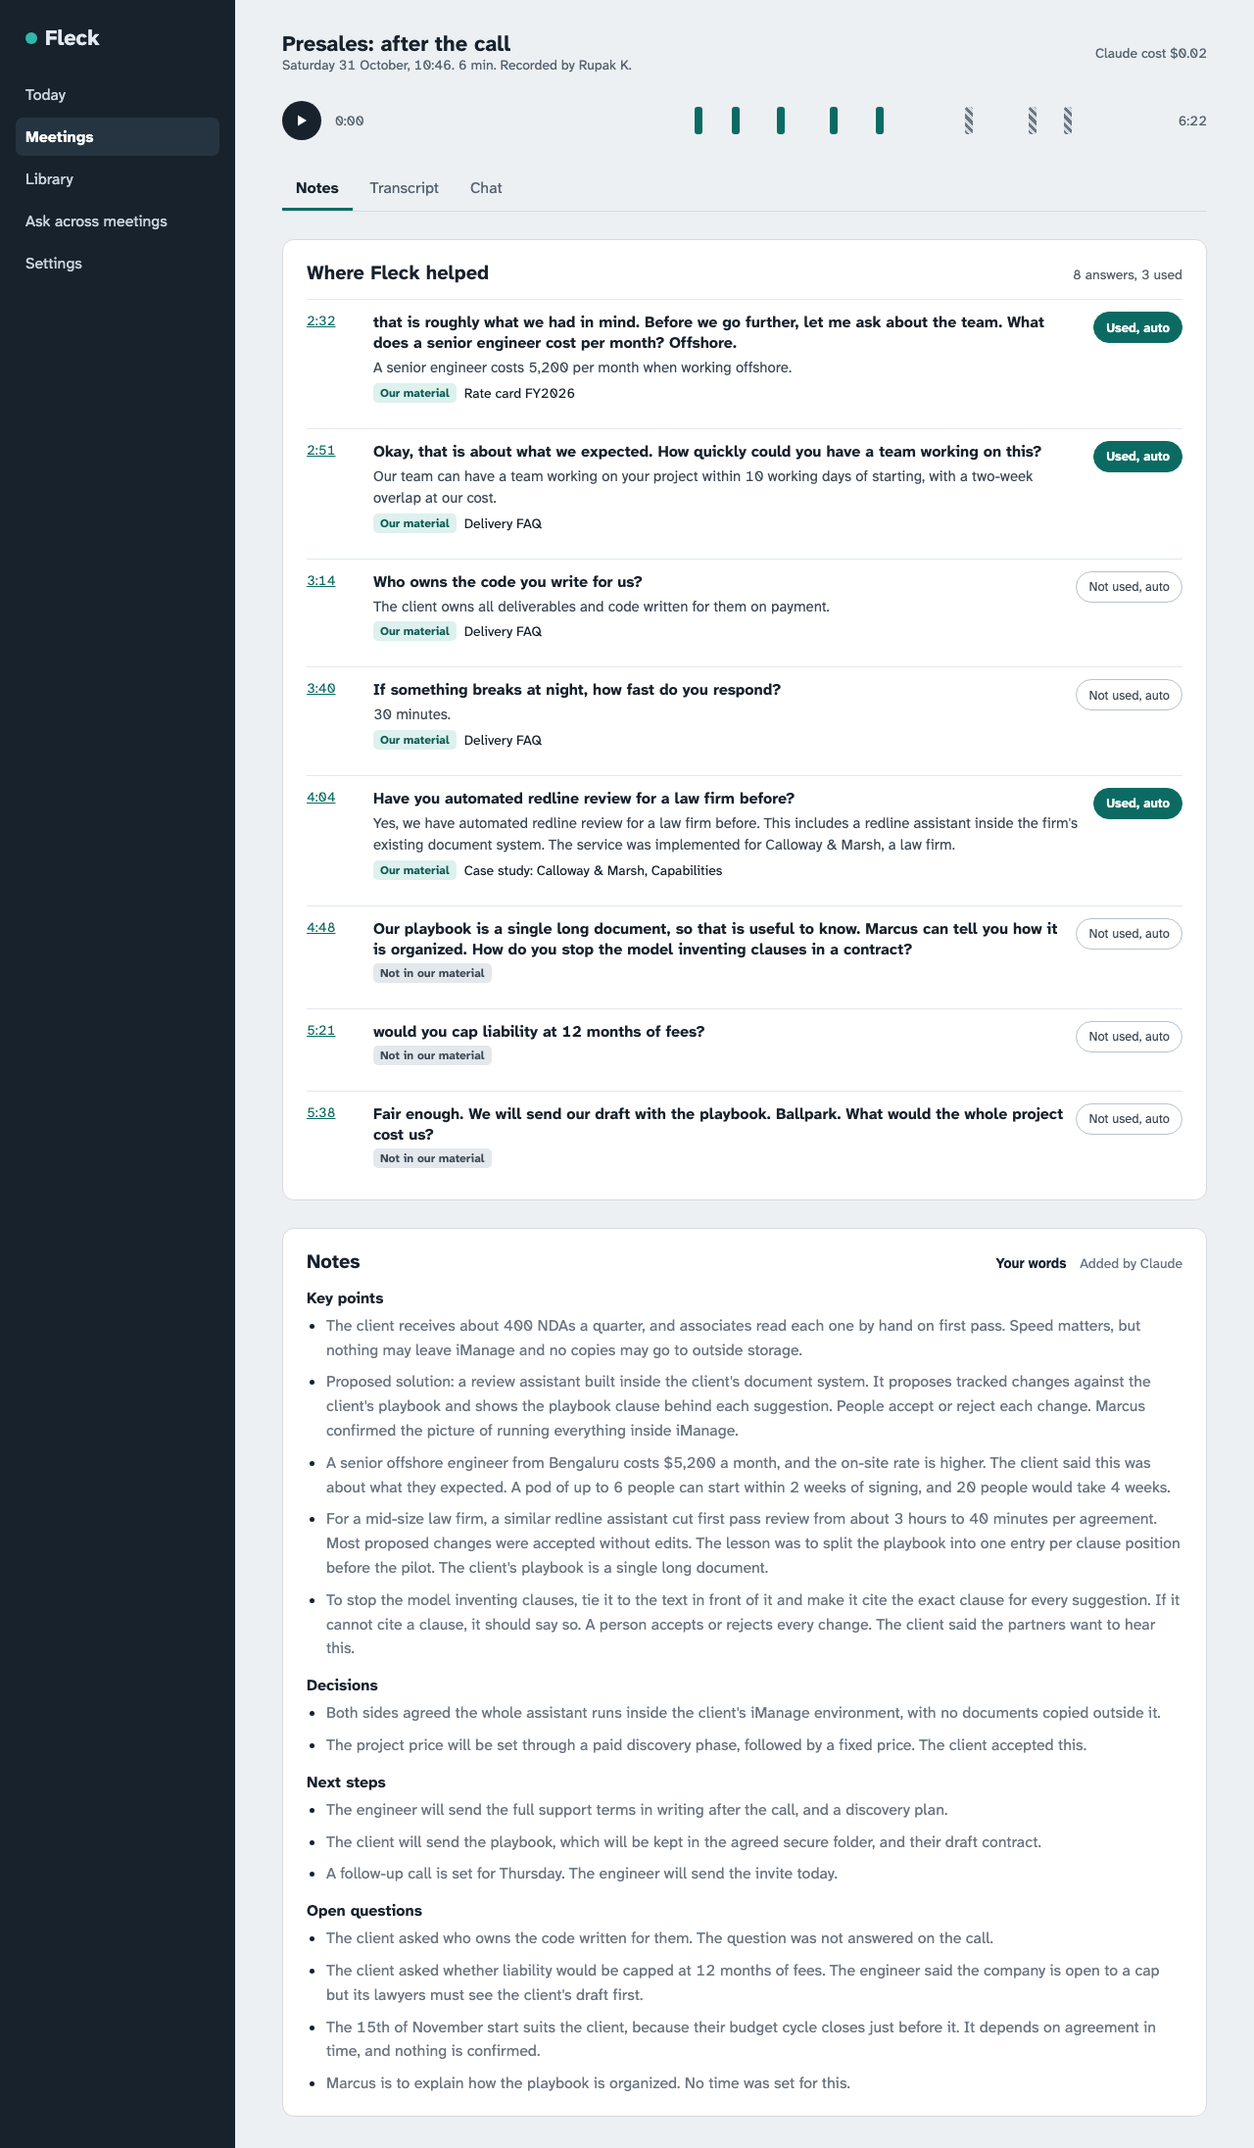
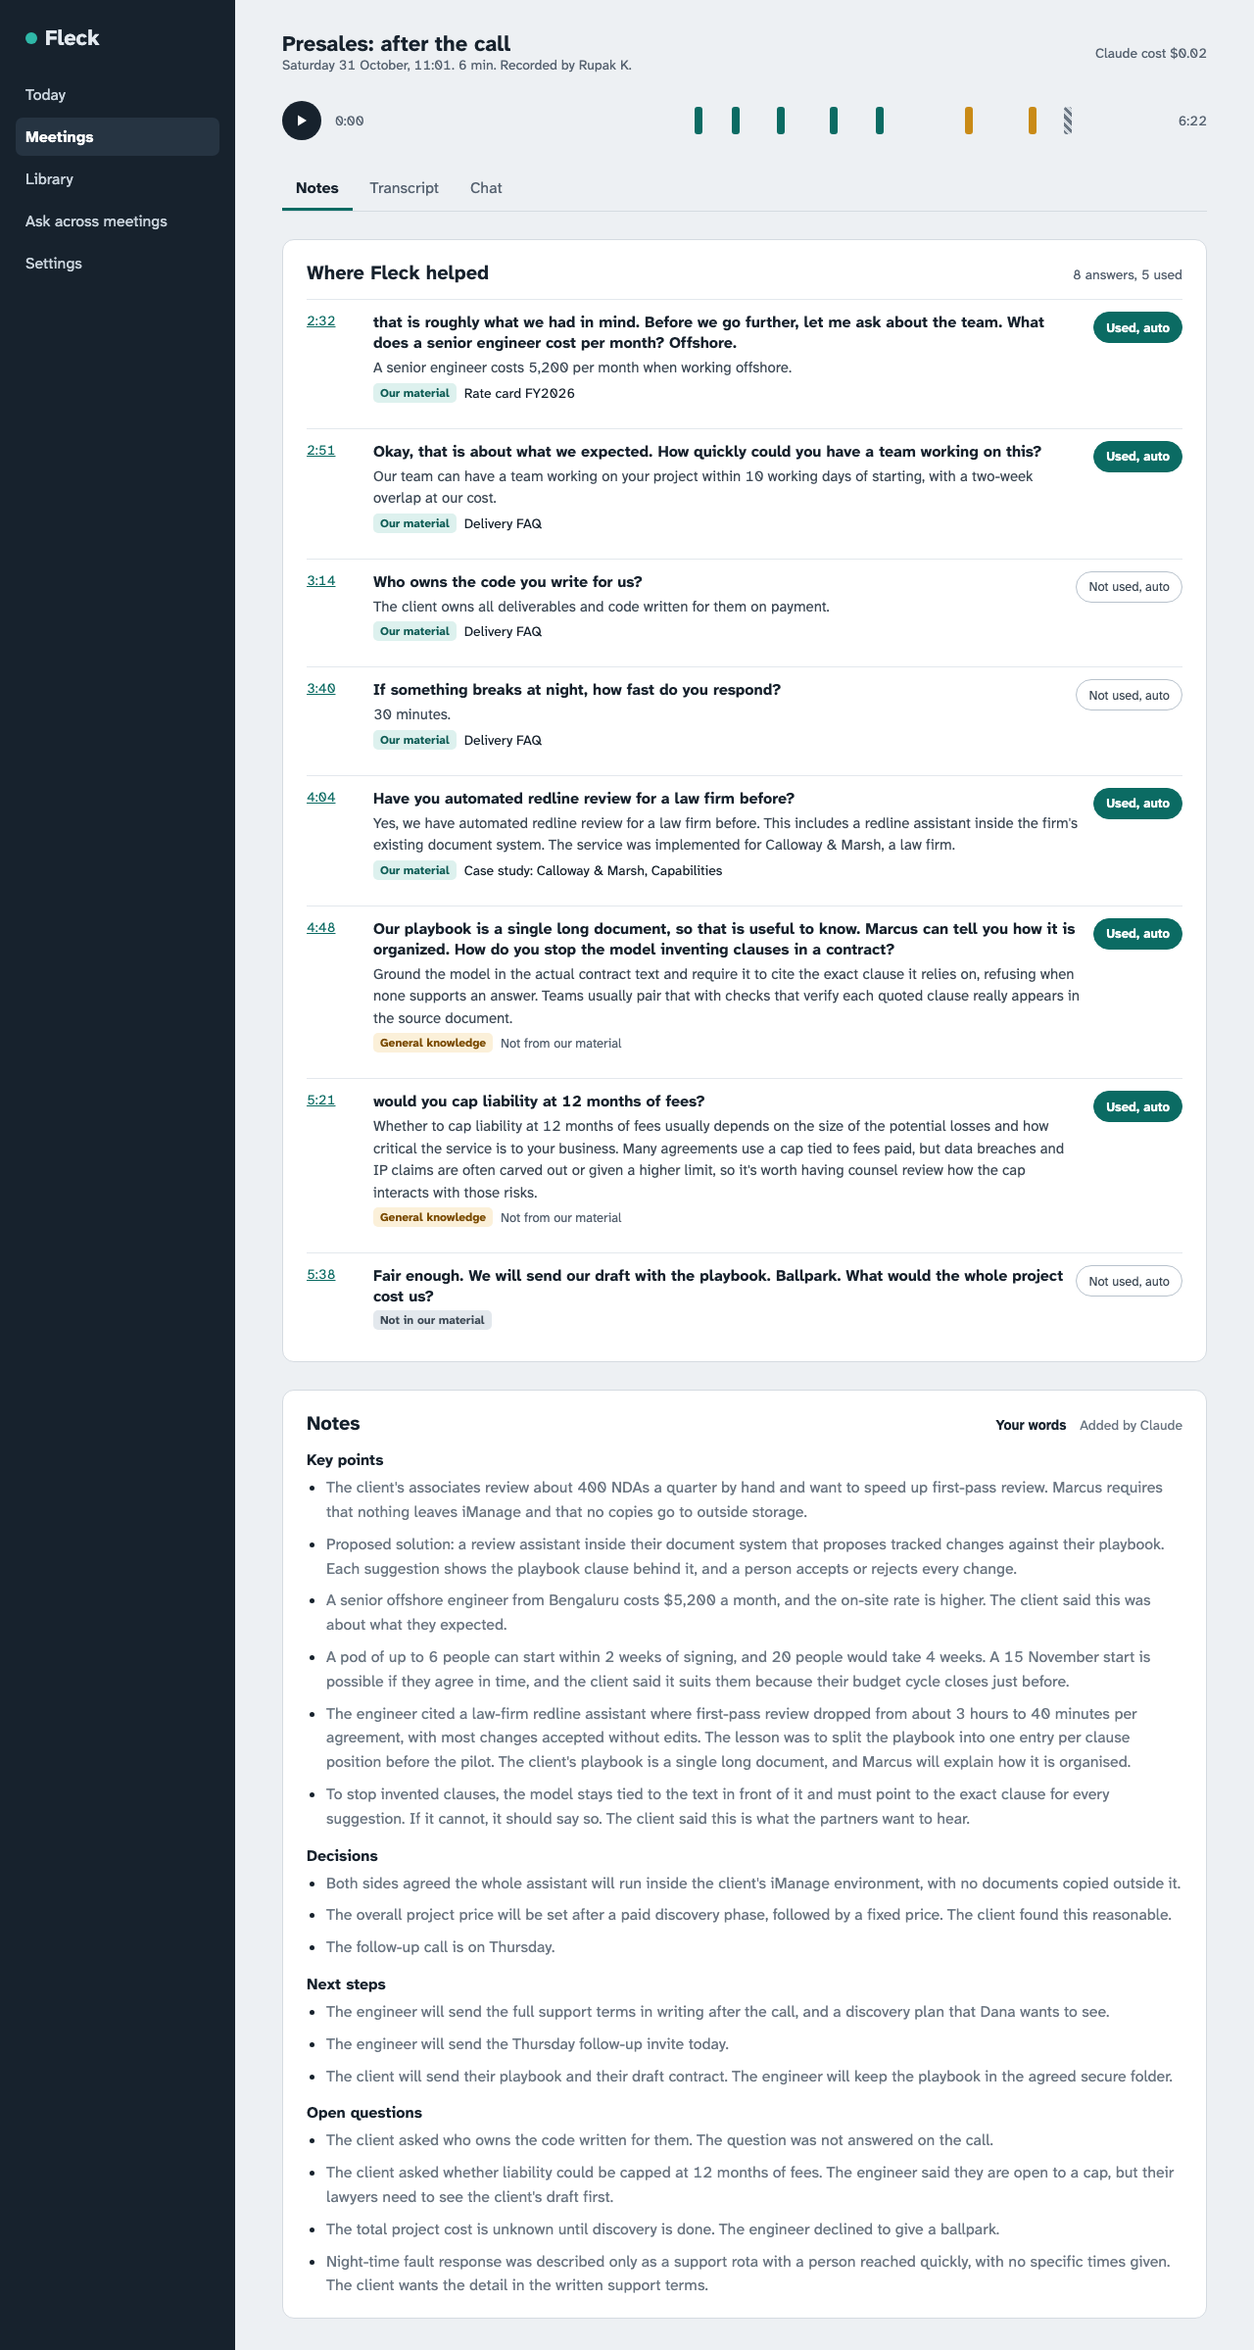
fix(web): Task 19 review round 1 (used markers overlap, replay Claude key, strict e2e)

diff --git a/web/e2e/after-meeting.spec.ts b/web/e2e/after-meeting.spec.ts
@@ -1,5 +1,5 @@
 import { spawn, spawnSync } from "node:child_process";
-import { mkdtempSync } from "node:fs";
+import { mkdirSync, mkdtempSync, readFileSync, writeFileSync } from "node:fs";
 import { tmpdir } from "node:os";
 import path from "node:path";
 import { expect, test } from "@playwright/test";
@@ -7,7 +7,7 @@ import { expect, test } from "@playwright/test";
 const ORIGIN = { Origin: "http://localhost:5173" };  // the api refuses cookie-authenticated writes from any other origin
 const ROOT = path.resolve(import.meta.dirname, "../..");
 
-test("after the replay and Stop: ready, every stored answer listed, a used marker toggled by hand survives reload", async ({ page }) => {
+test("after the replay and Stop: ready, every question answered, q_ip not used, toggled by hand survives reload", async ({ page }) => {
   test.setTimeout(900_000);
   await page.goto("/signin?next=%2F");
   await page.getByRole("button", { name: "Sign in with Google" }).click();
@@ -23,6 +23,10 @@ test("after the replay and Stop: ready, every stored answer listed, a used marke
   const paired = spawnSync("uv", helper("pair", code), { cwd: ROOT, env });
   expect(paired.status, String(paired.stderr)).toBe(0);
 
+  // the Claude key from .env into the throwaway keyring (never printed), so General knowledge answers can happen
+  const seeded = spawnSync("uv", helper("set-claude-key", "--from-env", ".env"), { cwd: ROOT, env, stdio: "ignore" });
+  expect(seeded.status, "set-claude-key --from-env .env").toBe(0);
+
   const meeting = await (await page.request.post("/api/meetings", { data: { title: "Presales: after the call" }, headers: ORIGIN })).json();
   await page.goto(`/meetings/${meeting.id}`);
   await expect(page.getByRole("heading", { name: "Presales: after the call", level: 1 })).toBeVisible();
@@ -34,6 +38,9 @@ test("after the replay and Stop: ready, every stored answer listed, a used marke
     const exited = new Promise<number | null>(res => replay.on("exit", res));
     expect(await exited, log.join("")).toBe(0);  // the whole WAV, its answers and its audio chunks are uploaded
   } finally {
+    // kept for diagnosing a missed question (classify timeouts, rules fallbacks, Ollama errors)
+    mkdirSync(path.join(ROOT, "web/test-results"), { recursive: true });
+    writeFileSync(path.join(ROOT, "web/test-results/helper-replay.log"), log.join(""));
     if (replay.pid) try { process.kill(-replay.pid); } catch { /* already gone */ }
   }
 
@@ -41,23 +48,25 @@ test("after the replay and Stop: ready, every stored answer listed, a used marke
   await expect(page.getByText("Processing the recording…")).toBeVisible({ timeout: 30_000 });
   await expect(page.getByRole("heading", { name: "Where Fleck helped" })).toBeVisible({ timeout: 240_000 });  // polled until ready
 
-  // the live path found 5 to 7 of the 8 questions in the runs so far; the page must show exactly what the api holds
-  const stored = (await (await page.request.get(`/api/meetings/${meeting.id}`)).json()).assists.length;
-  expect(stored).toBeGreaterThanOrEqual(4);
+  // every question of the script has an assist (the one on the turn it ends in), and the page lists what the api holds
+  const stored = await (await page.request.get(`/api/meetings/${meeting.id}`)).json();
+  const questions = JSON.parse(readFileSync(path.join(ROOT, "fixtures/conversation/reference.json"), "utf8")).questions as { id: string; end_ms: number }[];
+  const assistOf = (end: number) => stored.assists.find((a: { segment_id: string }) =>
+    stored.segments.some((s: { segment_id: string; start_ms: number; end_ms: number }) => s.segment_id === a.segment_id && s.start_ms <= end && end <= s.end_ms));
+  expect(questions.filter(q => !assistOf(q.end_ms)).map(q => q.id), "questions without an assist").toEqual([]);
   const items = page.getByRole("article");
-  await expect(items).toHaveCount(stored);
-  await expect(page.getByRole("group", { name: "Recording timeline" }).getByRole("button")).toHaveCount(stored);
+  await expect(items).toHaveCount(stored.assists.length);
+  await expect(page.getByRole("group", { name: "Recording timeline" }).getByRole("button")).toHaveCount(stored.assists.length);
   await expect(page.getByText("Claude cost $")).toBeVisible();
   await expect.poll(() => page.evaluate(() => document.querySelector("audio")?.duration ?? 0), { timeout: 30_000 }).toBeGreaterThan(300);  // a real recording
   await page.screenshot({ path: "../docs/superpowers/screenshots/meeting-after.png", fullPage: true });
 
-  const first = items.first();
-  const question = await first.getAttribute("aria-label");
-  await first.getByRole("button", { name: /^(Not used|Used), auto$/ }).click();
-  await expect(first.getByRole("button", { name: /, by hand$/ })).toBeVisible();
-  const label = await first.getByRole("button", { name: /, by hand$/ }).innerText();
+  const ip = page.getByRole("article", { name: assistOf(questions.find(q => q.id === "q_ip")!.end_ms).question });
+  await expect(ip.getByRole("button", { name: "Not used, auto" })).toBeVisible();
+  await ip.getByRole("button", { name: "Not used, auto" }).click();
+  await expect(ip.getByRole("button", { name: "Used, by hand" })).toBeVisible();
   await page.reload();
-  await expect(page.getByRole("article", { name: question! }).getByRole("button", { name: label })).toBeVisible();
+  await expect(page.getByRole("article", { name: assistOf(questions.find(q => q.id === "q_ip")!.end_ms).question }).getByRole("button", { name: "Used, by hand" })).toBeVisible();
 
   await page.goto("/meetings");
   await expect(page.getByRole("link", { name: "Presales: after the call" }).first()).toBeVisible();

diff --git a/api/tests/test_processing.py b/api/tests/test_processing.py
@@ -100,7 +100,7 @@ def test_process_meeting_ready_and_failed(env, monkeypatch):
 
 class Fake:
     """Embeds a text as a one-hot over its words, so equal wording scores 1."""
-    WORDS = ["thirty", "minutes", "team", "weeks", "code", "owner"]
+    WORDS = ["thirty", "minutes", "team", "weeks", "code", "owner", "five", "days"]
 
     def embed(self, texts):
         return [[float(w in t.lower()) for w in self.WORDS] + [0.01] for t in texts]
@@ -114,9 +114,11 @@ def _seed(make, mid=None):
         s.add_all([Segment(meeting_id=m.id, segment_id="c1", stream="client", start_ms=0, end_ms=1000, text="How fast?"),
                    Segment(meeting_id=m.id, segment_id="y-early", stream="you", start_ms=500, end_ms=900, text="thirty minutes"),  # before the card
                    Segment(meeting_id=m.id, segment_id="y1", stream="you", start_ms=6000, end_ms=8000, text="We respond in thirty minutes."),
+                   Segment(meeting_id=m.id, segment_id="y-over", stream="you", start_ms=1500, end_ms=3500, text="five days"),  # starts as the card shows (2000 ms)
                    Segment(meeting_id=m.id, segment_id="y-late", stream="you", start_ms=30000, end_ms=31000, text="team weeks")])
         s.add_all([Assist(meeting_id=m.id, assist_id="a-auto", segment_id="c1", question="q", answer="thirty minutes", first_words_ms=1000),
                    Assist(meeting_id=m.id, assist_id="a-miss", segment_id="c1", question="q", answer="team weeks code", first_words_ms=1000),
+                   Assist(meeting_id=m.id, assist_id="a-over", segment_id="c1", question="q", answer="five days", first_words_ms=1000),
                    Assist(meeting_id=m.id, assist_id="a-manual", segment_id="c1", question="q", answer="thirty minutes", first_words_ms=1000,
                           used=False, used_by="manual")])
         s.commit()
@@ -131,6 +133,7 @@ def test_manual_used_not_overwritten(make_session):
     assert (a["a-auto"].used, a["a-auto"].used_by) == (True, "auto") and a["a-auto"].used_score > 0.9
     assert (a["a-miss"].used, a["a-miss"].used_by) == (False, "auto")  # the only match is 30 s after the card
     assert (a["a-manual"].used, a["a-manual"].used_by) == (False, "manual")
+    assert a["a-over"].used is True  # a You final that overlaps the window counts, though it started before the card showed
 
 
 NOTES = "Asked for SLA in writing\nSend the rate card\n\nKickoff in May"

diff --git a/api/fleck_api/processing.py b/api/fleck_api/processing.py
@@ -88,8 +88,8 @@ def _cos(a: list[float], b: list[float]) -> float:
 
 
 def compute_used_markers(s: Session, meeting_id: int, embedder=None) -> None:
-    """Auto "used it": the best cosine between an assist's answer and the You finals that start within 15 s after the
-    card appeared. Assists a person set (used_by manual) are left alone."""
+    """Auto "used it": the best cosine between an assist's answer and the You finals that overlap the 15 s after the
+    card appeared (a vendor who starts talking as the card shows is reading it). Assists a person set (used_by manual) are left alone."""
     threshold = float(setting("FLECK_USED_THRESHOLD", "") or 0.52)
     segs = {x.segment_id: x for x in s.scalars(select(Segment).where(Segment.meeting_id == meeting_id))}
     you = [x for x in segs.values() if x.stream == "you" and x.text.strip()]
@@ -101,7 +101,7 @@ def compute_used_markers(s: Session, meeting_id: int, embedder=None) -> None:
         a.used_by, a.used_score, score = "auto", None, 0.0
         if q is not None and a.answer.strip():
             shown = q.end_ms + (a.first_words_ms or 0)
-            near = [x.segment_id for x in you if shown <= x.start_ms <= shown + USED_WINDOW_MS]
+            near = [x.segment_id for x in you if x.end_ms > shown and x.start_ms < shown + USED_WINDOW_MS]
             if near:
                 answer = embedder.embed([a.answer])[0]
                 score = max(_cos(answer, vec[i]) for i in near)

diff --git a/helper/fleck_helper/cli.py b/helper/fleck_helper/cli.py
@@ -112,6 +112,7 @@ def replay(wav: Path, meeting: str, fallback: str) -> None:
 
     token = load_token() or sys.exit("Not paired: run fleck-helper pair <code>")
     m = httpx.get(f"{api_url()}/api/meetings/{meeting}", headers={"Authorization": f"Bearer {token}"}, timeout=10).raise_for_status().json()["meeting"]
+    load_claude_key()  # the keychain's key, as the app does (never logged)
     assistant = make_assistant(m, fallback)
     transport = Transport(api_url(), token)
     threads = []

diff --git a/docs/superpowers/decisions.md b/docs/superpowers/decisions.md
@@ -134,3 +134,4 @@ Columns: **What** was decided · **Options** considered · **Why** · **Critic**
 | 124 | 2026-10-31 | **Real calls are manual (departure from spec §9's automation).** The real Google Meet and Zoom calls on speakers with a full-screen share, a real notification's **Record**, and the global ⌥⌘F with Accessibility are listed first in `manual-checks.md` for rupak.k; the automated stand-ins are `test_live_capture_speakers` (afplay through the speakers into the signed bundle's capture) and `test_panel_not_in_share` (a full-display ScreenCaptureKit screenshot). | Simulate a call with two Macs | Claude can't hold a real call alone | Pending |
 | 125 | 2026-10-31 | **Task 18 fix round 1.** (a) A pipeline that raises or a source that ends runs the full Stop (assertion, panel, unload, api stop). (b) The deferred unload is skipped when the next meeting has started; Quit waits for it. (c) The panel is emptied at each start and ignores another meeting's events; its question line is `fallback.question_sentences` (the sentences ending in "?", else the last), the selection `question_only` sends to Claude, without redaction. (d) A websocket `start` for another meeting while recording gets that meeting stopped (`POST …/stop` on a thread), so it doesn't stay `recording`. No api-side 409: the api does not know whether the helper is recording, and a stale `recording` row would block Record for good. (e) Junk You lines: a You final whose own gate is `client` (the mic held only bleed) is dropped, and Whisper segments with compression ratio over 2.4 or no-speech probability over 0.6 are left out of the text. mlx-whisper reported no_speech_prob 0.0 on every segment checked, including pure noise ("Thank you."), so in practice only the compression test bites. (f) Menu and notification actions and the 5-minute refresh run off the main thread; the resume question is put on the main thread and waited for. (g) The Claude key is re-read at each refresh and recording start. (h) The saved panel position is used only when it lies on a current screen (pulled in to fit), else top-centre. | An api 409 for a busy helper; dropping every You final during client speech | The gate already measures bleed per segment; a busy flag on the api would need a heartbeat | Pending |
 | 126 | 2026-10-31 | **After-meeting page (Task 19).** (a) **Live update:** while `processing` the page polls `GET /api/meetings/{id}` every 3 s and stops at `ready` or `failed` (the worker has no websocket hub, decision 120d). `MeetingLive` hands over to `MeetingAfter` whenever the status is not `recording`, so `/meetings/:id` is one route. (b) **Chat tab:** rendered with the text "Chat arrives in a later build"; Task 21 fills it. (c) **API:** `GET /api/meetings/{id}` also returns `cost_usd` (sum of the meeting's `llm_calls.cost_usd`, null costs count as 0) and `meeting.recorded_by_name`; `POST /api/meetings/{id}/retry` moves a `failed` meeting to `processing` and enqueues `process_meeting`, in one conditional UPDATE (a double click enqueues once; any other status is a no-op 204). `GET /api/meetings` was already newest first. (d) **Marker time:** an assist's time on the timeline and in the list is the start of its question segment (assists carry no time of their own). The toggle label is `Used|Not used` plus `by hand` when `used_by` is `manual`, else `auto`; the click is optimistic and rolls back if the `PATCH` fails. (e) **Replay uploads audio:** `fleck-helper replay` writes the WAV as 10 s chunks and sends them with `Transport.upload_chunk`, as a live recording does, so Stop assembles a real recording. (f) **No recording:** a ready meeting whose recording is missing shows "No recording" and a disabled play button; the markers stay. | Websocket push from the worker; a separate `/meetings/:id/after` route | One route per meeting; the worker cannot push | Pending |
+| 127 | 2026-10-31 | **Used markers count overlap (amends the spec's "starting within 15 s", Task 19 fix round 1).** A You final counts for an assist when `end_ms > shown_ms` and `start_ms < shown_ms + 15000`, where `shown_ms` = question end + first words. In the first after-meeting run the vendor's answer began at 158.02 s and the card showed at 158.15 s, so the old test scored 0 and every answer read "Not used". A vendor who starts talking as the card appears is reading it. `fleck-helper replay` now loads the Claude key from the keychain as the app does (it never did, so every replay ran with `no_api_key`); the after-meeting e2e seeds its throwaway keyring from `.env` and saves the helper's stderr to `web/test-results/helper-replay.log`. | Keep "starts after shown"; a 1 s grace before the card | A late-by-100-ms rule loses the clearest case of use | Pending |

diff --git a/docs/superpowers/build-log.md b/docs/superpowers/build-log.md
@@ -551,3 +551,10 @@ Follow-ups that must be done before the MVP is done:
 - Playwright `after-meeting.spec.ts`, full WAV replay, Stop, processing (one Sonnet summary, Claude cost $0.02): run 1 failed (my assertion expected 7 helped items; the live path stored 5: q_start, q_ip and q_price were not answered in that run). Run 2 passed in 6.7 min with the count compared to what the api holds. Screenshot: `docs/superpowers/screenshots/meeting-after.png`.
 - Found, not fixed (Task 17's rule): `compute_used_markers` only counts You finals starting at or after `question end + first_words_ms`, so a You answer that begins right after the question (158.0 s against 158.1 s) scores 0. All 5 answers in the run were "Not used, auto"; the real answers did follow.
 - Suites: `uv run pytest -m "not ollama" -q` api 136 passed; helper test_cli 8 passed; Vitest and `tsc` clean.
+
+### Task 19 fix round 1 (2026-10-31)
+
+- **Run 1 diagnosis.** No helper log survives: `~/Library/Logs/Fleck/helper.log` is the menu-bar app's (0 bytes), and the e2e kept replay's stderr only on a non-zero exit. What the database shows: run 1 and run 2 stored the same 57 segments, with the three missed questions (q_start 171.7 s, q_ip 194.1 s, q_price 341.7 s) transcribed correctly and gated `client`, so Whisper and the gate were fine and the classifier never fired. Answers in run 1 came 3 to 10 times slower (first words 1.4 to 3.0 s against 0.16 to 0.98 s in run 2). Run 1 followed a `make up` rebuild with a cold embedder, which fits the 300 ms classify deadline missing under load; it is not proven. The e2e now keeps `web/test-results/helper-replay.log` for the next miss.
+- Replay never loaded the Claude key (`load_claude_key` was only called by the app), which is why the general-knowledge questions rejected with `no_api_key`. Fixed in `cli.replay`; the e2e seeds its file keyring from `.env` (key never printed).
+- `compute_used_markers` counts overlap (decision 127). Test `a-over` added (failed before). Scores on the stored replay (`test_used_markers_match_script`, matches reference.json): q_rate 0.883 True, q_start 0.586 True, q_ip 0.411 False, q_sla 0.372 False, q_case 0.708 True, q_general 0.736 True, q_liability 0.0 False, q_price 0.0 False (threshold 0.52).
+- e2e now asserts: every reference question has an assist, the q_ip row reads "Not used, auto", toggling gives "Used, by hand", it survives reload. Run 3 passed (6.7 min). Suites: api 136 passed, ollama processing test 1 passed, helper test_cli 8, Vitest 31.
